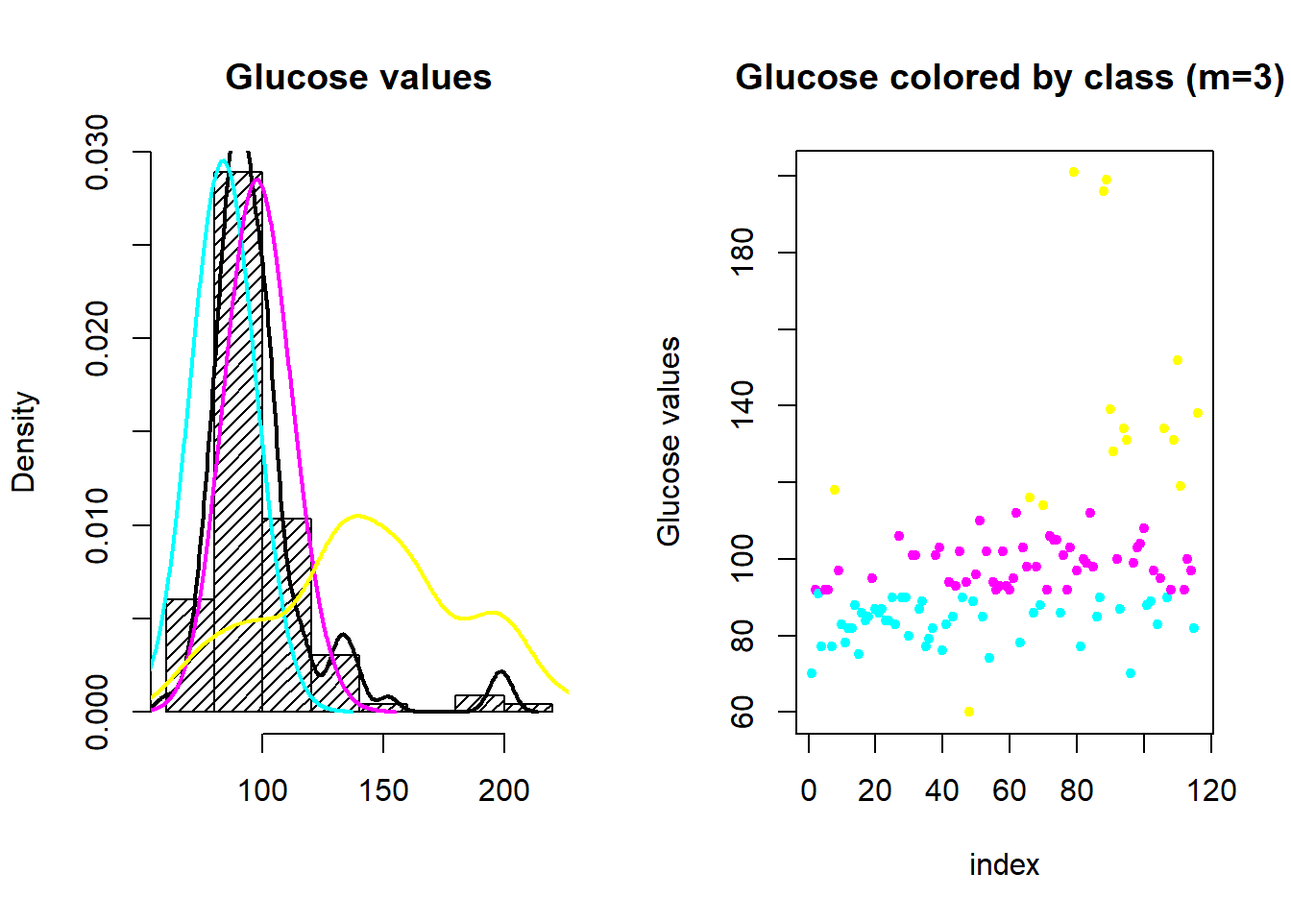
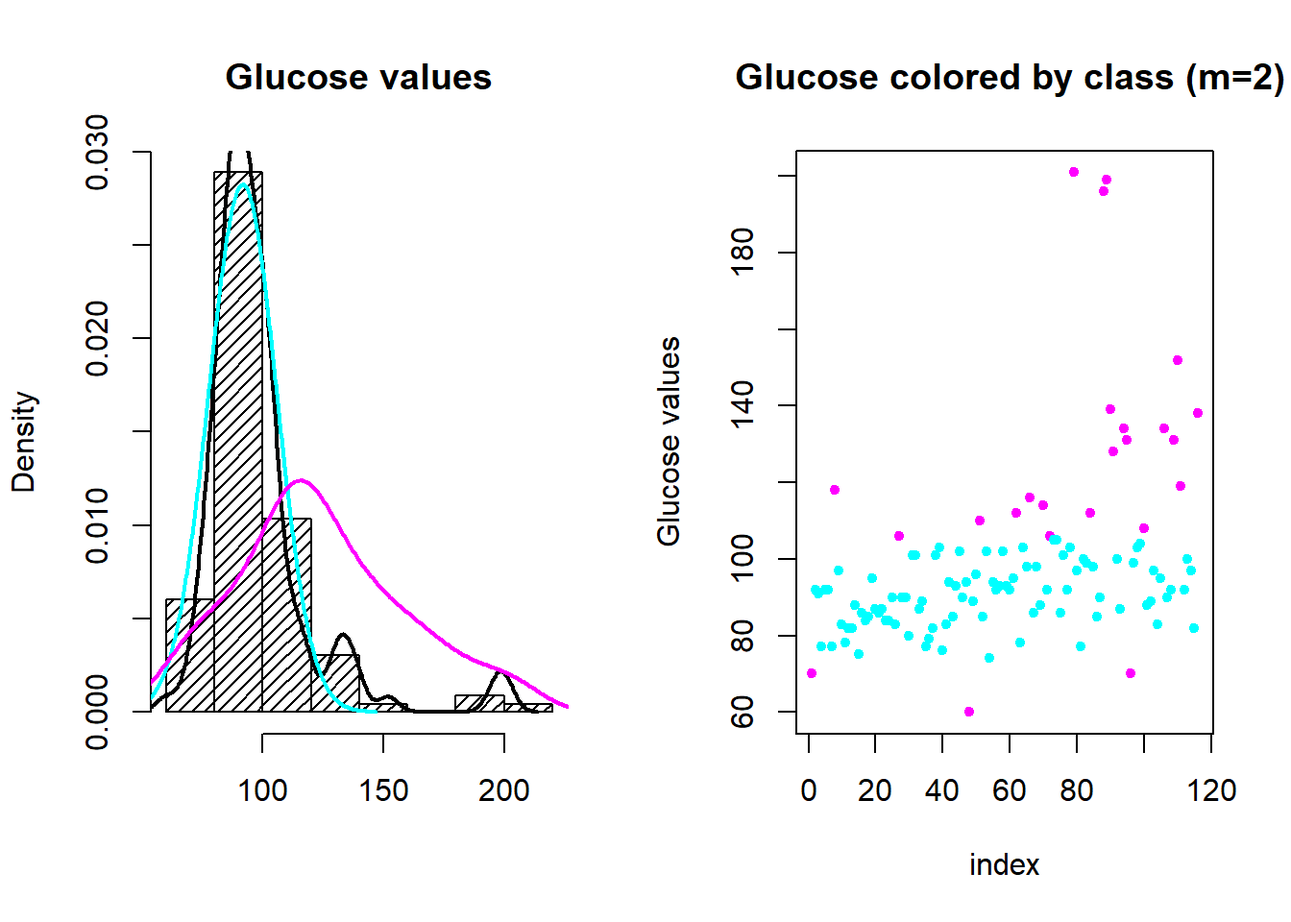
update lesson3 assignment

diff --git a/_book/assignment-glucose.html b/_book/assignment-glucose.html
@@ -132,7 +132,6 @@ code span.wa { color: #60a0b0; font-weight: bold; font-style: italic; } /* Warni
 
 <li class="divider"></li>
 <li><a href="index.html#section"></a></li>
-<li class="chapter" data-level="" data-path="preface.html"><a href="preface.html"><i class="fa fa-check"></i>Preface</a></li>
 <li class="chapter" data-level="1" data-path="intro.html"><a href="intro.html"><i class="fa fa-check"></i><b>1</b> Introduction</a></li>
 <li class="chapter" data-level="2" data-path="compstat.html"><a href="compstat.html"><i class="fa fa-check"></i><b>2</b> COMPSTAT</a><ul>
 <li class="chapter" data-level="2.1" data-path="lesson-1.html"><a href="lesson-1.html"><i class="fa fa-check"></i><b>2.1</b> Lesson 1</a></li>
@@ -175,8 +174,8 @@ code span.wa { color: #60a0b0; font-weight: bold; font-style: italic; } /* Warni
 <li class="chapter" data-level="4.4" data-path="assignment-trees.html"><a href="assignment-trees.html"><i class="fa fa-check"></i><b>4.4</b> Assignment Trees</a><ul>
 <li class="chapter" data-level="4.4.1" data-path="assignment-trees.html"><a href="assignment-trees.html#load-data"><i class="fa fa-check"></i><b>4.4.1</b> load data</a></li>
 <li class="chapter" data-level="4.4.2" data-path="assignment-trees.html"><a href="assignment-trees.html#classification-tree"><i class="fa fa-check"></i><b>4.4.2</b> Classification tree</a></li>
-<li class="chapter" data-level="4.4.3" data-path="assignment-trees.html"><a href="assignment-trees.html#random-forest-with-repeated-310-fold-cv"><i class="fa fa-check"></i><b>4.4.3</b> Random forest with repeated 3*10-fold CV</a></li>
-<li class="chapter" data-level="4.4.4" data-path="assignment-trees.html"><a href="assignment-trees.html#improve-random-forest-1"><i class="fa fa-check"></i><b>4.4.4</b> Improve Random Forest</a></li>
+<li><a href="assignment-trees.html#random-forest-with-repeated-310-fold-cv-improve-random-forest"><span class="toc-section-number">4.4.3</span> Random forest with repeated 3*10-fold CV
+### Improve Random Forest</a></li>
 </ul></li>
 <li class="chapter" data-level="4.5" data-path="assignment-trees-up-sampling.html"><a href="assignment-trees-up-sampling.html"><i class="fa fa-check"></i><b>4.5</b> Assignment Trees - Up Sampling</a><ul>
 <li class="chapter" data-level="4.5.1" data-path="assignment-trees-up-sampling.html"><a href="assignment-trees-up-sampling.html#load-data-1"><i class="fa fa-check"></i><b>4.5.1</b> load data</a></li>
@@ -220,84 +219,84 @@ code span.wa { color: #60a0b0; font-weight: bold; font-style: italic; } /* Warni
 searching for 2 or more latent classes.</p>
 <div id="defining-a-function-for-expectation-maximization-algorithm" class="section level3">
 <h3><span class="header-section-number">2.6.1</span> Defining a function for Expectation-Maximization algorithm</h3>
-<div class="sourceCode" id="cb98"><pre class="sourceCode r"><code class="sourceCode r"><a class="sourceLine" id="cb98-1" title="1"><span class="co"># function for E-M algorithm</span></a>
-<a class="sourceLine" id="cb98-2" title="2">emf&lt;-<span class="cf">function</span>(<span class="dt">xx =</span> vv, <span class="co"># a vector with the data</span></a>
-<a class="sourceLine" id="cb98-3" title="3">              <span class="dt">m =</span> <span class="dv">2</span>, <span class="co"># number of clustres</span></a>
-<a class="sourceLine" id="cb98-4" title="4">              <span class="dt">method =</span> <span class="st">&quot;crisp&quot;</span>, <span class="co"># method used for parameters estimation in each class; options: &quot;crisp&quot; or &quot;soft&quot;</span></a>
-<a class="sourceLine" id="cb98-5" title="5">              <span class="dt">itera =</span> <span class="dv">10</span>, <span class="co"># number of iterations</span></a>
-<a class="sourceLine" id="cb98-6" title="6">              <span class="dt">eps =</span> <span class="fl">0.01</span>, <span class="co"># the accepted error to converge (e)</span></a>
-<a class="sourceLine" id="cb98-7" title="7">              <span class="dt">params =</span> <span class="st">&quot;random&quot;</span>, <span class="co"># initial parameters, if &quot;random&quot; &#39;m&#39; values from &#39;xx&#39; are randomly select, or we can input a vector with &#39;m&#39; values</span></a>
-<a class="sourceLine" id="cb98-8" title="8">              <span class="dt">main=</span><span class="st">&quot;Glucose level&quot;</span>, <span class="co"># histogram title</span></a>
-<a class="sourceLine" id="cb98-9" title="9">              <span class="dt">seed =</span> <span class="dv">0</span> <span class="co"># value for set.seed()</span></a>
-<a class="sourceLine" id="cb98-10" title="10">              ){</a>
-<a class="sourceLine" id="cb98-11" title="11">  medias=<span class="ot">NA</span></a>
-<a class="sourceLine" id="cb98-12" title="12">  desvpadrao=<span class="ot">NA</span></a>
-<a class="sourceLine" id="cb98-13" title="13">  <span class="cf">if</span> (params <span class="op">==</span><span class="st"> &quot;random&quot;</span>) {</a>
-<a class="sourceLine" id="cb98-14" title="14">  <span class="kw">set.seed</span>(seed)</a>
-<a class="sourceLine" id="cb98-15" title="15">  param.mean&lt;-<span class="kw">sample</span>(xx,m)</a>
-<a class="sourceLine" id="cb98-16" title="16">  param.sd&lt;-<span class="kw">rep</span>(<span class="kw">sd</span>(xx)<span class="op">/</span>m,m)</a>
-<a class="sourceLine" id="cb98-17" title="17">  } <span class="cf">else</span> {</a>
-<a class="sourceLine" id="cb98-18" title="18">    param.mean&lt;-params</a>
-<a class="sourceLine" id="cb98-19" title="19">    param.sd&lt;-<span class="kw">rep</span>(<span class="kw">sd</span>(xx)<span class="op">/</span>m,m)</a>
-<a class="sourceLine" id="cb98-20" title="20">  }</a>
-<a class="sourceLine" id="cb98-21" title="21">  </a>
-<a class="sourceLine" id="cb98-22" title="22">  <span class="cf">for</span> (k <span class="cf">in</span> <span class="dv">1</span><span class="op">:</span>itera){</a>
-<a class="sourceLine" id="cb98-23" title="23">    densities&lt;-<span class="kw">sapply</span>(<span class="dv">1</span><span class="op">:</span>m, </a>
-<a class="sourceLine" id="cb98-24" title="24">                      <span class="cf">function</span>(i){<span class="kw">dnorm</span>(xx,</a>
-<a class="sourceLine" id="cb98-25" title="25">                                        <span class="dt">mean=</span>param.mean[i],</a>
-<a class="sourceLine" id="cb98-26" title="26">                                        <span class="dt">sd=</span>param.sd[i])})</a>
-<a class="sourceLine" id="cb98-27" title="27">    relevance&lt;-<span class="kw">t</span>(<span class="kw">apply</span>(densities,<span class="dv">1</span>,<span class="cf">function</span>(l){l<span class="op">/</span><span class="kw">sum</span>(l)}))</a>
-<a class="sourceLine" id="cb98-28" title="28">    </a>
-<a class="sourceLine" id="cb98-29" title="29">    attrib&lt;-<span class="kw">t</span>(<span class="kw">apply</span>(relevance,<span class="dv">1</span>,</a>
-<a class="sourceLine" id="cb98-30" title="30">                    <span class="cf">function</span>(l){<span class="kw">replace</span>(<span class="kw">rep</span>(<span class="dv">0</span>,m),<span class="kw">which.max</span>(l)[<span class="dv">1</span>],<span class="dv">1</span>)}))</a>
-<a class="sourceLine" id="cb98-31" title="31">    </a>
-<a class="sourceLine" id="cb98-32" title="32">    <span class="co"># Re-estimates the parameters of the probability distribution of each class</span></a>
-<a class="sourceLine" id="cb98-33" title="33">    <span class="cf">if</span> (method <span class="op">==</span><span class="st"> &quot;crisp&quot;</span>) {</a>
-<a class="sourceLine" id="cb98-34" title="34">      <span class="co">## M-step (alternative 1: crisp)</span></a>
-<a class="sourceLine" id="cb98-35" title="35">      param.mean.new&lt;-<span class="kw">sapply</span>(<span class="dv">1</span><span class="op">:</span>m,</a>
-<a class="sourceLine" id="cb98-36" title="36">                             <span class="cf">function</span>(j){<span class="kw">mean</span>(xx[attrib[,j]<span class="op">==</span><span class="dv">1</span>])})</a>
-<a class="sourceLine" id="cb98-37" title="37">      param.sd.new&lt;-<span class="kw">sapply</span>(<span class="dv">1</span><span class="op">:</span>m,</a>
-<a class="sourceLine" id="cb98-38" title="38">                           <span class="cf">function</span>(j){<span class="kw">sqrt</span>(<span class="kw">sum</span>(relevance[,j]<span class="op">*</span>(xx<span class="op">-</span>param.mean[j])<span class="op">^</span><span class="dv">2</span>)<span class="op">/</span><span class="kw">sum</span>(relevance[,j]))})</a>
-<a class="sourceLine" id="cb98-39" title="39">    } <span class="cf">else</span> {</a>
-<a class="sourceLine" id="cb98-40" title="40">      <span class="co">## M-step (alternative 2: soft)</span></a>
-<a class="sourceLine" id="cb98-41" title="41">      param.mean.new&lt;-<span class="kw">sapply</span>(<span class="dv">1</span><span class="op">:</span>m,</a>
-<a class="sourceLine" id="cb98-42" title="42">                             <span class="cf">function</span>(j){<span class="kw">sum</span>(xx<span class="op">*</span>relevance[,j])<span class="op">/</span><span class="kw">sum</span>(relevance[,j])})</a>
-<a class="sourceLine" id="cb98-43" title="43">      param.sd.new&lt;-<span class="kw">sapply</span>(<span class="dv">1</span><span class="op">:</span>m,</a>
-<a class="sourceLine" id="cb98-44" title="44">                           <span class="cf">function</span>(j){<span class="kw">sqrt</span>(<span class="kw">sum</span>(relevance[,j]<span class="op">*</span>(xx<span class="op">-</span>param.mean[j])<span class="op">^</span><span class="dv">2</span>)<span class="op">/</span><span class="kw">sum</span>(relevance[,j]))})</a>
-<a class="sourceLine" id="cb98-45" title="45">      </a>
-<a class="sourceLine" id="cb98-46" title="46">    }</a>
-<a class="sourceLine" id="cb98-47" title="47">    </a>
-<a class="sourceLine" id="cb98-48" title="48">    <span class="co"># convergence the maximum number of iterations (k).</span></a>
-<a class="sourceLine" id="cb98-49" title="49">    <span class="kw">cat</span>(<span class="st">&quot;iteration&quot;</span>, k, <span class="st">&quot;evolution:&quot;</span>, </a>
-<a class="sourceLine" id="cb98-50" title="50">        dif&lt;-<span class="kw">sum</span>(<span class="kw">abs</span>(param.mean.new <span class="op">-</span><span class="st"> </span>param.mean)), <span class="st">&quot;</span><span class="ch">\n</span><span class="st">&quot;</span>)</a>
-<a class="sourceLine" id="cb98-51" title="51">    <span class="cf">if</span>(dif <span class="op">&lt;</span><span class="st"> </span>eps) <span class="cf">break</span> <span class="co"># the accepted error to converge (e)</span></a>
-<a class="sourceLine" id="cb98-52" title="52">    param.mean&lt;-param.mean.new</a>
-<a class="sourceLine" id="cb98-53" title="53">    param.sd&lt;-param.sd.new</a>
-<a class="sourceLine" id="cb98-54" title="54">  }</a>
-<a class="sourceLine" id="cb98-55" title="55">  </a>
-<a class="sourceLine" id="cb98-56" title="56">  <span class="co">## ploting the histogram and density curve for the vector of data</span></a>
-<a class="sourceLine" id="cb98-57" title="57">  <span class="kw">hist</span>(xx, <span class="dt">density =</span> <span class="dv">20</span>,</a>
-<a class="sourceLine" id="cb98-58" title="58">       <span class="dt">main=</span>main,</a>
-<a class="sourceLine" id="cb98-59" title="59">       <span class="dt">xlab=</span><span class="st">&quot;&quot;</span>, <span class="dt">freq=</span>F)</a>
-<a class="sourceLine" id="cb98-60" title="60">  <span class="kw">lines</span>(<span class="kw">density</span>(xx),</a>
-<a class="sourceLine" id="cb98-61" title="61">        <span class="dt">lwd=</span><span class="dv">2</span>,<span class="dt">col=</span><span class="st">&quot;black&quot;</span>)</a>
-<a class="sourceLine" id="cb98-62" title="62">  </a>
-<a class="sourceLine" id="cb98-63" title="63">  <span class="co">## save means, std deviations and classes&#39; attributes on a list</span></a>
-<a class="sourceLine" id="cb98-64" title="64">  result&lt;-<span class="kw">list</span>(<span class="dt">medias =</span> param.mean,</a>
-<a class="sourceLine" id="cb98-65" title="65">               <span class="dt">desvpadrao =</span> param.sd,</a>
-<a class="sourceLine" id="cb98-66" title="66">               <span class="dt">classe =</span> <span class="kw">as.data.frame</span>(attrib))</a>
-<a class="sourceLine" id="cb98-67" title="67"></a>
-<a class="sourceLine" id="cb98-68" title="68">}</a></code></pre></div>
+<div class="sourceCode" id="cb3"><pre class="sourceCode r"><code class="sourceCode r"><a class="sourceLine" id="cb3-1" title="1"><span class="co"># function for E-M algorithm</span></a>
+<a class="sourceLine" id="cb3-2" title="2">emf&lt;-<span class="cf">function</span>(<span class="dt">xx =</span> vv, <span class="co"># a vector with the data</span></a>
+<a class="sourceLine" id="cb3-3" title="3">              <span class="dt">m =</span> <span class="dv">2</span>, <span class="co"># number of clustres</span></a>
+<a class="sourceLine" id="cb3-4" title="4">              <span class="dt">method =</span> <span class="st">&quot;crisp&quot;</span>, <span class="co"># method used for parameters estimation in each class; options: &quot;crisp&quot; or &quot;soft&quot;</span></a>
+<a class="sourceLine" id="cb3-5" title="5">              <span class="dt">itera =</span> <span class="dv">10</span>, <span class="co"># number of iterations</span></a>
+<a class="sourceLine" id="cb3-6" title="6">              <span class="dt">eps =</span> <span class="fl">0.01</span>, <span class="co"># the accepted error to converge (e)</span></a>
+<a class="sourceLine" id="cb3-7" title="7">              <span class="dt">params =</span> <span class="st">&quot;random&quot;</span>, <span class="co"># initial parameters, if &quot;random&quot; &#39;m&#39; values from &#39;xx&#39; are randomly select, or we can input a vector with &#39;m&#39; values</span></a>
+<a class="sourceLine" id="cb3-8" title="8">              <span class="dt">main=</span><span class="st">&quot;Glucose level&quot;</span>, <span class="co"># histogram title</span></a>
+<a class="sourceLine" id="cb3-9" title="9">              <span class="dt">seed =</span> <span class="dv">0</span> <span class="co"># value for set.seed()</span></a>
+<a class="sourceLine" id="cb3-10" title="10">              ){</a>
+<a class="sourceLine" id="cb3-11" title="11">  medias=<span class="ot">NA</span></a>
+<a class="sourceLine" id="cb3-12" title="12">  desvpadrao=<span class="ot">NA</span></a>
+<a class="sourceLine" id="cb3-13" title="13">  <span class="cf">if</span> (params <span class="op">==</span><span class="st"> &quot;random&quot;</span>) {</a>
+<a class="sourceLine" id="cb3-14" title="14">  <span class="kw">set.seed</span>(seed)</a>
+<a class="sourceLine" id="cb3-15" title="15">  param.mean&lt;-<span class="kw">sample</span>(xx,m)</a>
+<a class="sourceLine" id="cb3-16" title="16">  param.sd&lt;-<span class="kw">rep</span>(<span class="kw">sd</span>(xx)<span class="op">/</span>m,m)</a>
+<a class="sourceLine" id="cb3-17" title="17">  } <span class="cf">else</span> {</a>
+<a class="sourceLine" id="cb3-18" title="18">    param.mean&lt;-params</a>
+<a class="sourceLine" id="cb3-19" title="19">    param.sd&lt;-<span class="kw">rep</span>(<span class="kw">sd</span>(xx)<span class="op">/</span>m,m)</a>
+<a class="sourceLine" id="cb3-20" title="20">  }</a>
+<a class="sourceLine" id="cb3-21" title="21">  </a>
+<a class="sourceLine" id="cb3-22" title="22">  <span class="cf">for</span> (k <span class="cf">in</span> <span class="dv">1</span><span class="op">:</span>itera){</a>
+<a class="sourceLine" id="cb3-23" title="23">    densities&lt;-<span class="kw">sapply</span>(<span class="dv">1</span><span class="op">:</span>m, </a>
+<a class="sourceLine" id="cb3-24" title="24">                      <span class="cf">function</span>(i){<span class="kw">dnorm</span>(xx,</a>
+<a class="sourceLine" id="cb3-25" title="25">                                        <span class="dt">mean=</span>param.mean[i],</a>
+<a class="sourceLine" id="cb3-26" title="26">                                        <span class="dt">sd=</span>param.sd[i])})</a>
+<a class="sourceLine" id="cb3-27" title="27">    relevance&lt;-<span class="kw">t</span>(<span class="kw">apply</span>(densities,<span class="dv">1</span>,<span class="cf">function</span>(l){l<span class="op">/</span><span class="kw">sum</span>(l)}))</a>
+<a class="sourceLine" id="cb3-28" title="28">    </a>
+<a class="sourceLine" id="cb3-29" title="29">    attrib&lt;-<span class="kw">t</span>(<span class="kw">apply</span>(relevance,<span class="dv">1</span>,</a>
+<a class="sourceLine" id="cb3-30" title="30">                    <span class="cf">function</span>(l){<span class="kw">replace</span>(<span class="kw">rep</span>(<span class="dv">0</span>,m),<span class="kw">which.max</span>(l)[<span class="dv">1</span>],<span class="dv">1</span>)}))</a>
+<a class="sourceLine" id="cb3-31" title="31">    </a>
+<a class="sourceLine" id="cb3-32" title="32">    <span class="co"># Re-estimates the parameters of the probability distribution of each class</span></a>
+<a class="sourceLine" id="cb3-33" title="33">    <span class="cf">if</span> (method <span class="op">==</span><span class="st"> &quot;crisp&quot;</span>) {</a>
+<a class="sourceLine" id="cb3-34" title="34">      <span class="co">## M-step (alternative 1: crisp)</span></a>
+<a class="sourceLine" id="cb3-35" title="35">      param.mean.new&lt;-<span class="kw">sapply</span>(<span class="dv">1</span><span class="op">:</span>m,</a>
+<a class="sourceLine" id="cb3-36" title="36">                             <span class="cf">function</span>(j){<span class="kw">mean</span>(xx[attrib[,j]<span class="op">==</span><span class="dv">1</span>])})</a>
+<a class="sourceLine" id="cb3-37" title="37">      param.sd.new&lt;-<span class="kw">sapply</span>(<span class="dv">1</span><span class="op">:</span>m,</a>
+<a class="sourceLine" id="cb3-38" title="38">                           <span class="cf">function</span>(j){<span class="kw">sqrt</span>(<span class="kw">sum</span>(relevance[,j]<span class="op">*</span>(xx<span class="op">-</span>param.mean[j])<span class="op">^</span><span class="dv">2</span>)<span class="op">/</span><span class="kw">sum</span>(relevance[,j]))})</a>
+<a class="sourceLine" id="cb3-39" title="39">    } <span class="cf">else</span> {</a>
+<a class="sourceLine" id="cb3-40" title="40">      <span class="co">## M-step (alternative 2: soft)</span></a>
+<a class="sourceLine" id="cb3-41" title="41">      param.mean.new&lt;-<span class="kw">sapply</span>(<span class="dv">1</span><span class="op">:</span>m,</a>
+<a class="sourceLine" id="cb3-42" title="42">                             <span class="cf">function</span>(j){<span class="kw">sum</span>(xx<span class="op">*</span>relevance[,j])<span class="op">/</span><span class="kw">sum</span>(relevance[,j])})</a>
+<a class="sourceLine" id="cb3-43" title="43">      param.sd.new&lt;-<span class="kw">sapply</span>(<span class="dv">1</span><span class="op">:</span>m,</a>
+<a class="sourceLine" id="cb3-44" title="44">                           <span class="cf">function</span>(j){<span class="kw">sqrt</span>(<span class="kw">sum</span>(relevance[,j]<span class="op">*</span>(xx<span class="op">-</span>param.mean[j])<span class="op">^</span><span class="dv">2</span>)<span class="op">/</span><span class="kw">sum</span>(relevance[,j]))})</a>
+<a class="sourceLine" id="cb3-45" title="45">      </a>
+<a class="sourceLine" id="cb3-46" title="46">    }</a>
+<a class="sourceLine" id="cb3-47" title="47">    </a>
+<a class="sourceLine" id="cb3-48" title="48">    <span class="co"># convergence the maximum number of iterations (k).</span></a>
+<a class="sourceLine" id="cb3-49" title="49">    <span class="kw">cat</span>(<span class="st">&quot;iteration&quot;</span>, k, <span class="st">&quot;evolution:&quot;</span>, </a>
+<a class="sourceLine" id="cb3-50" title="50">        dif&lt;-<span class="kw">sum</span>(<span class="kw">abs</span>(param.mean.new <span class="op">-</span><span class="st"> </span>param.mean)), <span class="st">&quot;</span><span class="ch">\n</span><span class="st">&quot;</span>)</a>
+<a class="sourceLine" id="cb3-51" title="51">    <span class="cf">if</span>(dif <span class="op">&lt;</span><span class="st"> </span>eps) <span class="cf">break</span> <span class="co"># the accepted error to converge (e)</span></a>
+<a class="sourceLine" id="cb3-52" title="52">    param.mean&lt;-param.mean.new</a>
+<a class="sourceLine" id="cb3-53" title="53">    param.sd&lt;-param.sd.new</a>
+<a class="sourceLine" id="cb3-54" title="54">  }</a>
+<a class="sourceLine" id="cb3-55" title="55">  </a>
+<a class="sourceLine" id="cb3-56" title="56">  <span class="co">## ploting the histogram and density curve for the vector of data</span></a>
+<a class="sourceLine" id="cb3-57" title="57">  <span class="kw">hist</span>(xx, <span class="dt">density =</span> <span class="dv">20</span>,</a>
+<a class="sourceLine" id="cb3-58" title="58">       <span class="dt">main=</span>main,</a>
+<a class="sourceLine" id="cb3-59" title="59">       <span class="dt">xlab=</span><span class="st">&quot;&quot;</span>, <span class="dt">freq=</span>F)</a>
+<a class="sourceLine" id="cb3-60" title="60">  <span class="kw">lines</span>(<span class="kw">density</span>(xx),</a>
+<a class="sourceLine" id="cb3-61" title="61">        <span class="dt">lwd=</span><span class="dv">2</span>,<span class="dt">col=</span><span class="st">&quot;black&quot;</span>)</a>
+<a class="sourceLine" id="cb3-62" title="62">  </a>
+<a class="sourceLine" id="cb3-63" title="63">  <span class="co">## save means, std deviations and classes&#39; attributes on a list</span></a>
+<a class="sourceLine" id="cb3-64" title="64">  result&lt;-<span class="kw">list</span>(<span class="dt">medias =</span> param.mean,</a>
+<a class="sourceLine" id="cb3-65" title="65">               <span class="dt">desvpadrao =</span> param.sd,</a>
+<a class="sourceLine" id="cb3-66" title="66">               <span class="dt">classe =</span> <span class="kw">as.data.frame</span>(attrib))</a>
+<a class="sourceLine" id="cb3-67" title="67"></a>
+<a class="sourceLine" id="cb3-68" title="68">}</a></code></pre></div>
 </div>
 <div id="clusters-density-curves" class="section level3">
 <h3><span class="header-section-number">2.6.2</span> 2 clusters density curves</h3>
-<div class="sourceCode" id="cb99"><pre class="sourceCode r"><code class="sourceCode r"><a class="sourceLine" id="cb99-1" title="1"><span class="co"># reading the data</span></a>
-<a class="sourceLine" id="cb99-2" title="2">breast&lt;-<span class="kw">read.csv</span>(<span class="st">&quot;2.UploadedData/dataR2.csv&quot;</span>)</a>
-<a class="sourceLine" id="cb99-3" title="3"></a>
-<a class="sourceLine" id="cb99-4" title="4"><span class="kw">par</span>(<span class="dt">mfrow=</span><span class="kw">c</span>(<span class="dv">1</span>,<span class="dv">2</span>))</a>
-<a class="sourceLine" id="cb99-5" title="5"></a>
-<a class="sourceLine" id="cb99-6" title="6"><span class="co"># run the EM function for Glucose with 2 clusters and max 20 iterations</span></a>
-<a class="sourceLine" id="cb99-7" title="7">res&lt;-<span class="kw">emf</span>(<span class="dt">xx =</span> breast<span class="op">$</span>Glucose, <span class="dt">itera =</span> <span class="dv">20</span>, <span class="dt">m=</span><span class="dv">2</span>, <span class="dt">method =</span> <span class="st">&quot;crisp&quot;</span>, <span class="dt">main =</span> <span class="st">&quot;Glucose values&quot;</span>, <span class="dt">seed =</span> <span class="dv">0</span>)</a></code></pre></div>
+<div class="sourceCode" id="cb4"><pre class="sourceCode r"><code class="sourceCode r"><a class="sourceLine" id="cb4-1" title="1"><span class="co"># reading the data</span></a>
+<a class="sourceLine" id="cb4-2" title="2">breast&lt;-<span class="kw">read.csv</span>(<span class="st">&quot;2.UploadedData/dataR2.csv&quot;</span>)</a>
+<a class="sourceLine" id="cb4-3" title="3"></a>
+<a class="sourceLine" id="cb4-4" title="4"><span class="kw">par</span>(<span class="dt">mfrow=</span><span class="kw">c</span>(<span class="dv">1</span>,<span class="dv">2</span>))</a>
+<a class="sourceLine" id="cb4-5" title="5"></a>
+<a class="sourceLine" id="cb4-6" title="6"><span class="co"># run the EM function for Glucose with 2 clusters and max 20 iterations</span></a>
+<a class="sourceLine" id="cb4-7" title="7">res&lt;-<span class="kw">emf</span>(<span class="dt">xx =</span> breast<span class="op">$</span>Glucose, <span class="dt">itera =</span> <span class="dv">20</span>, <span class="dt">m=</span><span class="dv">2</span>, <span class="dt">method =</span> <span class="st">&quot;crisp&quot;</span>, <span class="dt">main =</span> <span class="st">&quot;Glucose values&quot;</span>, <span class="dt">seed =</span> <span class="dv">0</span>)</a></code></pre></div>
 <pre><code>## iteration 1 evolution: 17.79331 
 ## iteration 2 evolution: 9.991458 
 ## iteration 3 evolution: 9.361819 
@@ -305,48 +304,48 @@ searching for 2 or more latent classes.</p>
 ## iteration 5 evolution: 2.419946 
 ## iteration 6 evolution: 5.454559 
 ## iteration 7 evolution: 0</code></pre>
-<div class="sourceCode" id="cb101"><pre class="sourceCode r"><code class="sourceCode r"><a class="sourceLine" id="cb101-1" title="1"><span class="co"># add density curves for each class</span></a>
-<a class="sourceLine" id="cb101-2" title="2"><span class="kw">lines</span>(<span class="kw">density</span>(<span class="kw">rnorm</span>(<span class="dv">100</span>, res<span class="op">$</span>medias[<span class="dv">1</span>], res<span class="op">$</span>desvpadrao[<span class="dv">1</span>]), <span class="dt">bw =</span> <span class="dv">12</span>),<span class="dt">lwd=</span><span class="dv">2</span>,<span class="dt">col=</span><span class="dv">5</span>)</a>
-<a class="sourceLine" id="cb101-3" title="3"><span class="kw">lines</span>(<span class="kw">density</span>(<span class="kw">rnorm</span>(<span class="dv">100</span>, res<span class="op">$</span>medias[<span class="dv">2</span>], res<span class="op">$</span>desvpadrao[<span class="dv">2</span>]), <span class="dt">bw =</span> <span class="dv">12</span>),<span class="dt">lwd=</span><span class="dv">2</span>,<span class="dt">col=</span><span class="dv">6</span>)</a>
-<a class="sourceLine" id="cb101-4" title="4"></a>
-<a class="sourceLine" id="cb101-5" title="5"><span class="co">## column with 2 classes</span></a>
-<a class="sourceLine" id="cb101-6" title="6"><span class="kw">attach</span>(res<span class="op">$</span>classe)</a>
-<a class="sourceLine" id="cb101-7" title="7">classe2&lt;-<span class="kw">ifelse</span>(V1 <span class="op">==</span><span class="st"> </span><span class="dv">1</span>, <span class="dv">5</span> , <span class="dv">6</span>) <span class="co"># create &#39;m&#39; classes</span></a>
-<a class="sourceLine" id="cb101-8" title="8"><span class="kw">detach</span>()</a>
-<a class="sourceLine" id="cb101-9" title="9"></a>
-<a class="sourceLine" id="cb101-10" title="10"><span class="co"># Plot the values in which each point has a color corresponding to the class to which it belongs</span></a>
-<a class="sourceLine" id="cb101-11" title="11"><span class="kw">plot</span>(<span class="dv">1</span><span class="op">:</span><span class="kw">length</span>(breast<span class="op">$</span>Glucose), breast<span class="op">$</span>Glucose, <span class="dt">col=</span>classe2, <span class="dt">pch=</span><span class="dv">20</span>,</a>
-<a class="sourceLine" id="cb101-12" title="12">     <span class="dt">xlab=</span><span class="st">&quot;index&quot;</span>, <span class="dt">ylab=</span><span class="st">&quot;Glucose values&quot;</span>,</a>
-<a class="sourceLine" id="cb101-13" title="13">     <span class="dt">main =</span> <span class="st">&quot; Glucose colored by class (m=2)&quot;</span>)</a></code></pre></div>
-<p><img src="heads2sem_files/figure-html/unnamed-chunk-60-1.png" width="672" /></p>
+<div class="sourceCode" id="cb6"><pre class="sourceCode r"><code class="sourceCode r"><a class="sourceLine" id="cb6-1" title="1"><span class="co"># add density curves for each class</span></a>
+<a class="sourceLine" id="cb6-2" title="2"><span class="kw">lines</span>(<span class="kw">density</span>(<span class="kw">rnorm</span>(<span class="dv">100</span>, res<span class="op">$</span>medias[<span class="dv">1</span>], res<span class="op">$</span>desvpadrao[<span class="dv">1</span>]), <span class="dt">bw =</span> <span class="dv">12</span>),<span class="dt">lwd=</span><span class="dv">2</span>,<span class="dt">col=</span><span class="dv">5</span>)</a>
+<a class="sourceLine" id="cb6-3" title="3"><span class="kw">lines</span>(<span class="kw">density</span>(<span class="kw">rnorm</span>(<span class="dv">100</span>, res<span class="op">$</span>medias[<span class="dv">2</span>], res<span class="op">$</span>desvpadrao[<span class="dv">2</span>]), <span class="dt">bw =</span> <span class="dv">12</span>),<span class="dt">lwd=</span><span class="dv">2</span>,<span class="dt">col=</span><span class="dv">6</span>)</a>
+<a class="sourceLine" id="cb6-4" title="4"></a>
+<a class="sourceLine" id="cb6-5" title="5"><span class="co">## column with 2 classes</span></a>
+<a class="sourceLine" id="cb6-6" title="6"><span class="kw">attach</span>(res<span class="op">$</span>classe)</a>
+<a class="sourceLine" id="cb6-7" title="7">classe2&lt;-<span class="kw">ifelse</span>(V1 <span class="op">==</span><span class="st"> </span><span class="dv">1</span>, <span class="dv">5</span> , <span class="dv">6</span>) <span class="co"># create &#39;m&#39; classes</span></a>
+<a class="sourceLine" id="cb6-8" title="8"><span class="kw">detach</span>()</a>
+<a class="sourceLine" id="cb6-9" title="9"></a>
+<a class="sourceLine" id="cb6-10" title="10"><span class="co"># Plot the values in which each point has a color corresponding to the class to which it belongs</span></a>
+<a class="sourceLine" id="cb6-11" title="11"><span class="kw">plot</span>(<span class="dv">1</span><span class="op">:</span><span class="kw">length</span>(breast<span class="op">$</span>Glucose), breast<span class="op">$</span>Glucose, <span class="dt">col=</span>classe2, <span class="dt">pch=</span><span class="dv">20</span>,</a>
+<a class="sourceLine" id="cb6-12" title="12">     <span class="dt">xlab=</span><span class="st">&quot;index&quot;</span>, <span class="dt">ylab=</span><span class="st">&quot;Glucose values&quot;</span>,</a>
+<a class="sourceLine" id="cb6-13" title="13">     <span class="dt">main =</span> <span class="st">&quot; Glucose colored by class (m=2)&quot;</span>)</a></code></pre></div>
+<p><img src="heads2sem_files/figure-html/unnamed-chunk-3-1.png" width="672" /></p>
 </div>
 <div id="clusters-density-curves-1" class="section level3">
 <h3><span class="header-section-number">2.6.3</span> 3 clusters density curves</h3>
-<div class="sourceCode" id="cb102"><pre class="sourceCode r"><code class="sourceCode r"><a class="sourceLine" id="cb102-1" title="1"><span class="kw">par</span>(<span class="dt">mfrow=</span><span class="kw">c</span>(<span class="dv">1</span>,<span class="dv">2</span>))</a>
-<a class="sourceLine" id="cb102-2" title="2"></a>
-<a class="sourceLine" id="cb102-3" title="3"><span class="co"># run the EM function for Glucose with 3 clusters and max 20 iterations</span></a>
-<a class="sourceLine" id="cb102-4" title="4">res&lt;-<span class="kw">emf</span>(<span class="dt">xx =</span> breast<span class="op">$</span>Glucose, <span class="dt">itera =</span> <span class="dv">20</span>, <span class="dt">m=</span><span class="dv">3</span>, <span class="dt">method =</span> <span class="st">&quot;crisp&quot;</span>, <span class="dt">main =</span> <span class="st">&quot;Glucose values&quot;</span>, <span class="dt">seed =</span> <span class="dv">0</span>)</a></code></pre></div>
+<div class="sourceCode" id="cb7"><pre class="sourceCode r"><code class="sourceCode r"><a class="sourceLine" id="cb7-1" title="1"><span class="kw">par</span>(<span class="dt">mfrow=</span><span class="kw">c</span>(<span class="dv">1</span>,<span class="dv">2</span>))</a>
+<a class="sourceLine" id="cb7-2" title="2"></a>
+<a class="sourceLine" id="cb7-3" title="3"><span class="co"># run the EM function for Glucose with 3 clusters and max 20 iterations</span></a>
+<a class="sourceLine" id="cb7-4" title="4">res&lt;-<span class="kw">emf</span>(<span class="dt">xx =</span> breast<span class="op">$</span>Glucose, <span class="dt">itera =</span> <span class="dv">20</span>, <span class="dt">m=</span><span class="dv">3</span>, <span class="dt">method =</span> <span class="st">&quot;crisp&quot;</span>, <span class="dt">main =</span> <span class="st">&quot;Glucose values&quot;</span>, <span class="dt">seed =</span> <span class="dv">0</span>)</a></code></pre></div>
 <pre><code>## iteration 1 evolution: 22.28802 
 ## iteration 2 evolution: 16.6689 
 ## iteration 3 evolution: 3.445327 
 ## iteration 4 evolution: 0.3056396 
 ## iteration 5 evolution: 0</code></pre>
-<div class="sourceCode" id="cb104"><pre class="sourceCode r"><code class="sourceCode r"><a class="sourceLine" id="cb104-1" title="1"><span class="co"># add density curves for each class</span></a>
-<a class="sourceLine" id="cb104-2" title="2"><span class="kw">lines</span>(<span class="kw">density</span>(<span class="kw">rnorm</span>(<span class="dv">100</span>, res<span class="op">$</span>medias[<span class="dv">1</span>], res<span class="op">$</span>desvpadrao[<span class="dv">1</span>]), <span class="dt">bw =</span> <span class="dv">12</span>),<span class="dt">lwd=</span><span class="dv">2</span>,<span class="dt">col=</span><span class="dv">5</span>)</a>
-<a class="sourceLine" id="cb104-3" title="3"><span class="kw">lines</span>(<span class="kw">density</span>(<span class="kw">rnorm</span>(<span class="dv">100</span>, res<span class="op">$</span>medias[<span class="dv">2</span>], res<span class="op">$</span>desvpadrao[<span class="dv">2</span>]), <span class="dt">bw =</span> <span class="dv">12</span>),<span class="dt">lwd=</span><span class="dv">2</span>,<span class="dt">col=</span><span class="dv">6</span>)</a>
-<a class="sourceLine" id="cb104-4" title="4"><span class="kw">lines</span>(<span class="kw">density</span>(<span class="kw">rnorm</span>(<span class="dv">100</span>, res<span class="op">$</span>medias[<span class="dv">3</span>], res<span class="op">$</span>desvpadrao[<span class="dv">3</span>]), <span class="dt">bw =</span> <span class="dv">12</span>),<span class="dt">lwd=</span><span class="dv">2</span>,<span class="dt">col=</span><span class="dv">7</span>)</a>
-<a class="sourceLine" id="cb104-5" title="5"></a>
-<a class="sourceLine" id="cb104-6" title="6"><span class="co">## column with 3 classes</span></a>
-<a class="sourceLine" id="cb104-7" title="7"><span class="kw">attach</span>(res<span class="op">$</span>classe)</a>
-<a class="sourceLine" id="cb104-8" title="8">classe3&lt;-<span class="kw">ifelse</span>(V1 <span class="op">==</span><span class="st"> </span><span class="dv">1</span>, <span class="dv">5</span>,</a>
-<a class="sourceLine" id="cb104-9" title="9">               <span class="kw">ifelse</span>(V2 <span class="op">==</span><span class="st"> </span><span class="dv">1</span>, <span class="dv">6</span>,</a>
-<a class="sourceLine" id="cb104-10" title="10">                      <span class="dv">7</span>)) <span class="co"># create &#39;m&#39; classes</span></a>
-<a class="sourceLine" id="cb104-11" title="11"><span class="kw">detach</span>()</a>
-<a class="sourceLine" id="cb104-12" title="12"></a>
-<a class="sourceLine" id="cb104-13" title="13"><span class="kw">plot</span>(<span class="dv">1</span><span class="op">:</span><span class="kw">length</span>(breast<span class="op">$</span>Glucose), breast<span class="op">$</span>Glucose, <span class="dt">col=</span>classe3, <span class="dt">pch=</span><span class="dv">20</span>,</a>
-<a class="sourceLine" id="cb104-14" title="14">     <span class="dt">xlab=</span><span class="st">&quot;index&quot;</span>, <span class="dt">ylab=</span><span class="st">&quot;Glucose values&quot;</span>,</a>
-<a class="sourceLine" id="cb104-15" title="15">     <span class="dt">main =</span> <span class="st">&quot; Glucose colored by class (m=3)&quot;</span>)</a></code></pre></div>
-<p><img src="heads2sem_files/figure-html/unnamed-chunk-61-1.png" width="672" /></p>
+<div class="sourceCode" id="cb9"><pre class="sourceCode r"><code class="sourceCode r"><a class="sourceLine" id="cb9-1" title="1"><span class="co"># add density curves for each class</span></a>
+<a class="sourceLine" id="cb9-2" title="2"><span class="kw">lines</span>(<span class="kw">density</span>(<span class="kw">rnorm</span>(<span class="dv">100</span>, res<span class="op">$</span>medias[<span class="dv">1</span>], res<span class="op">$</span>desvpadrao[<span class="dv">1</span>]), <span class="dt">bw =</span> <span class="dv">12</span>),<span class="dt">lwd=</span><span class="dv">2</span>,<span class="dt">col=</span><span class="dv">5</span>)</a>
+<a class="sourceLine" id="cb9-3" title="3"><span class="kw">lines</span>(<span class="kw">density</span>(<span class="kw">rnorm</span>(<span class="dv">100</span>, res<span class="op">$</span>medias[<span class="dv">2</span>], res<span class="op">$</span>desvpadrao[<span class="dv">2</span>]), <span class="dt">bw =</span> <span class="dv">12</span>),<span class="dt">lwd=</span><span class="dv">2</span>,<span class="dt">col=</span><span class="dv">6</span>)</a>
+<a class="sourceLine" id="cb9-4" title="4"><span class="kw">lines</span>(<span class="kw">density</span>(<span class="kw">rnorm</span>(<span class="dv">100</span>, res<span class="op">$</span>medias[<span class="dv">3</span>], res<span class="op">$</span>desvpadrao[<span class="dv">3</span>]), <span class="dt">bw =</span> <span class="dv">12</span>),<span class="dt">lwd=</span><span class="dv">2</span>,<span class="dt">col=</span><span class="dv">7</span>)</a>
+<a class="sourceLine" id="cb9-5" title="5"></a>
+<a class="sourceLine" id="cb9-6" title="6"><span class="co">## column with 3 classes</span></a>
+<a class="sourceLine" id="cb9-7" title="7"><span class="kw">attach</span>(res<span class="op">$</span>classe)</a>
+<a class="sourceLine" id="cb9-8" title="8">classe3&lt;-<span class="kw">ifelse</span>(V1 <span class="op">==</span><span class="st"> </span><span class="dv">1</span>, <span class="dv">5</span>,</a>
+<a class="sourceLine" id="cb9-9" title="9">               <span class="kw">ifelse</span>(V2 <span class="op">==</span><span class="st"> </span><span class="dv">1</span>, <span class="dv">6</span>,</a>
+<a class="sourceLine" id="cb9-10" title="10">                      <span class="dv">7</span>)) <span class="co"># create &#39;m&#39; classes</span></a>
+<a class="sourceLine" id="cb9-11" title="11"><span class="kw">detach</span>()</a>
+<a class="sourceLine" id="cb9-12" title="12"></a>
+<a class="sourceLine" id="cb9-13" title="13"><span class="kw">plot</span>(<span class="dv">1</span><span class="op">:</span><span class="kw">length</span>(breast<span class="op">$</span>Glucose), breast<span class="op">$</span>Glucose, <span class="dt">col=</span>classe3, <span class="dt">pch=</span><span class="dv">20</span>,</a>
+<a class="sourceLine" id="cb9-14" title="14">     <span class="dt">xlab=</span><span class="st">&quot;index&quot;</span>, <span class="dt">ylab=</span><span class="st">&quot;Glucose values&quot;</span>,</a>
+<a class="sourceLine" id="cb9-15" title="15">     <span class="dt">main =</span> <span class="st">&quot; Glucose colored by class (m=3)&quot;</span>)</a></code></pre></div>
+<p><img src="heads2sem_files/figure-html/unnamed-chunk-4-1.png" width="672" /></p>
 
 </div>
 </div>
